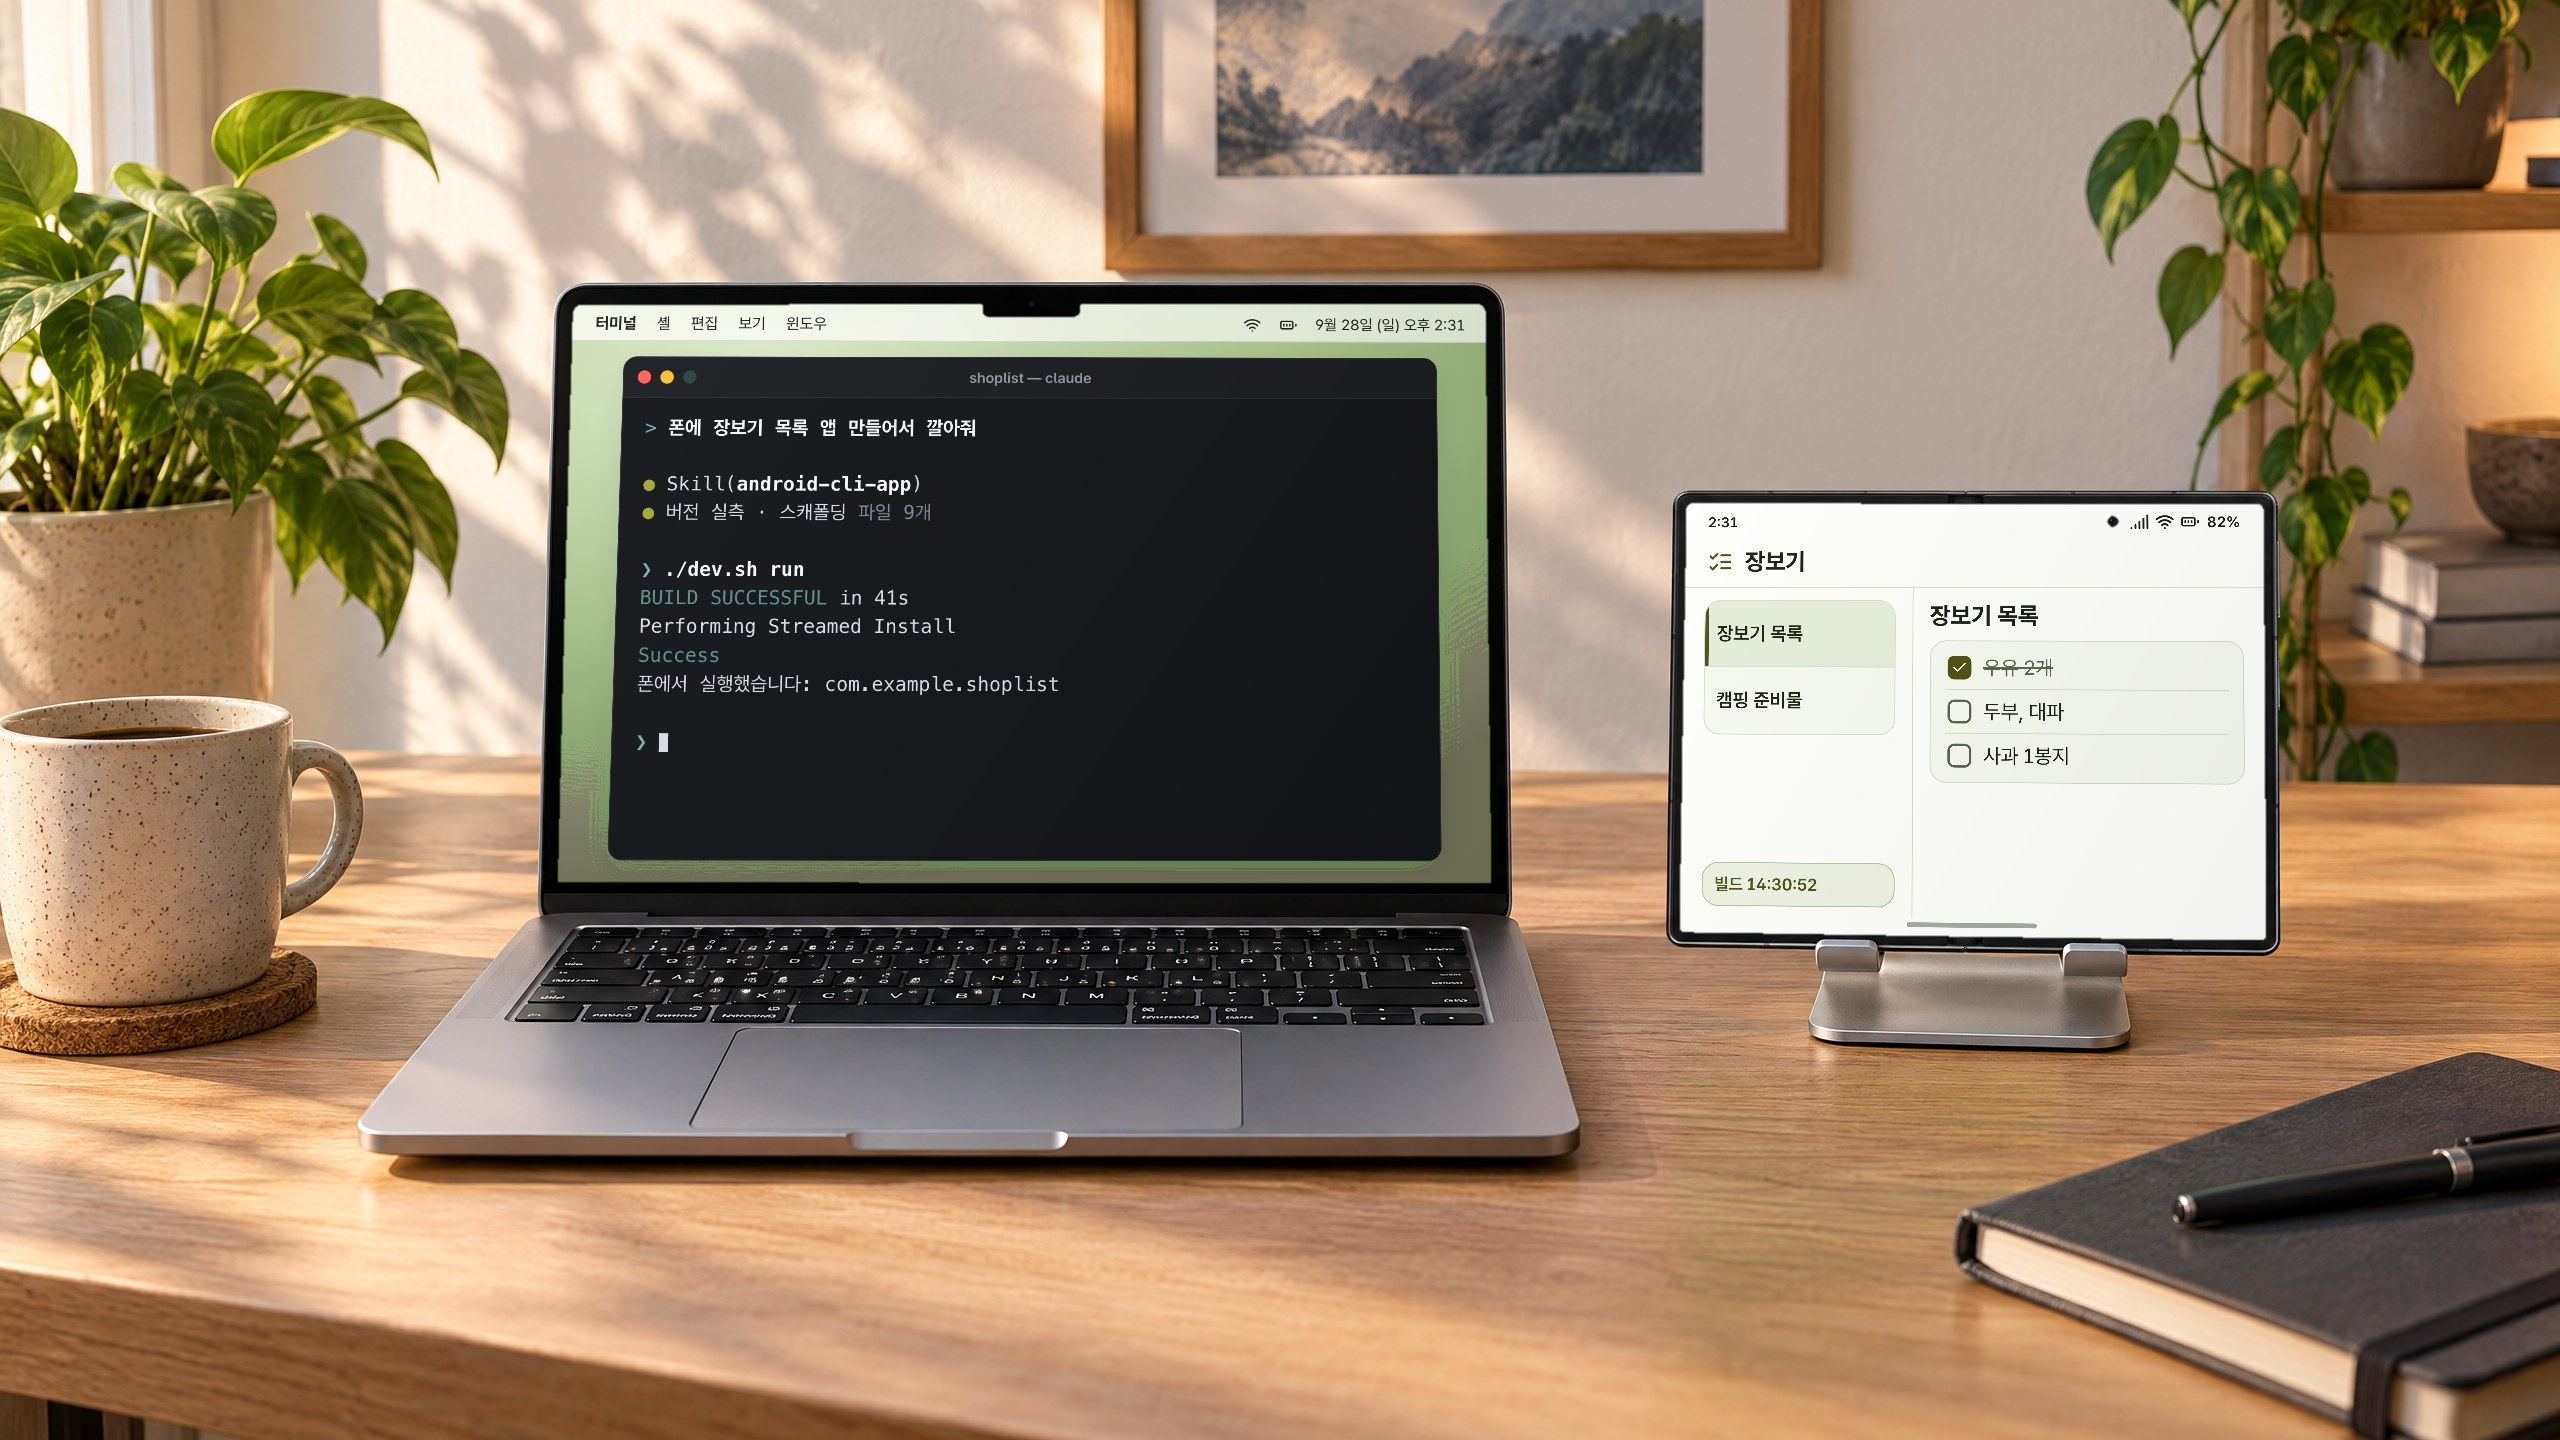
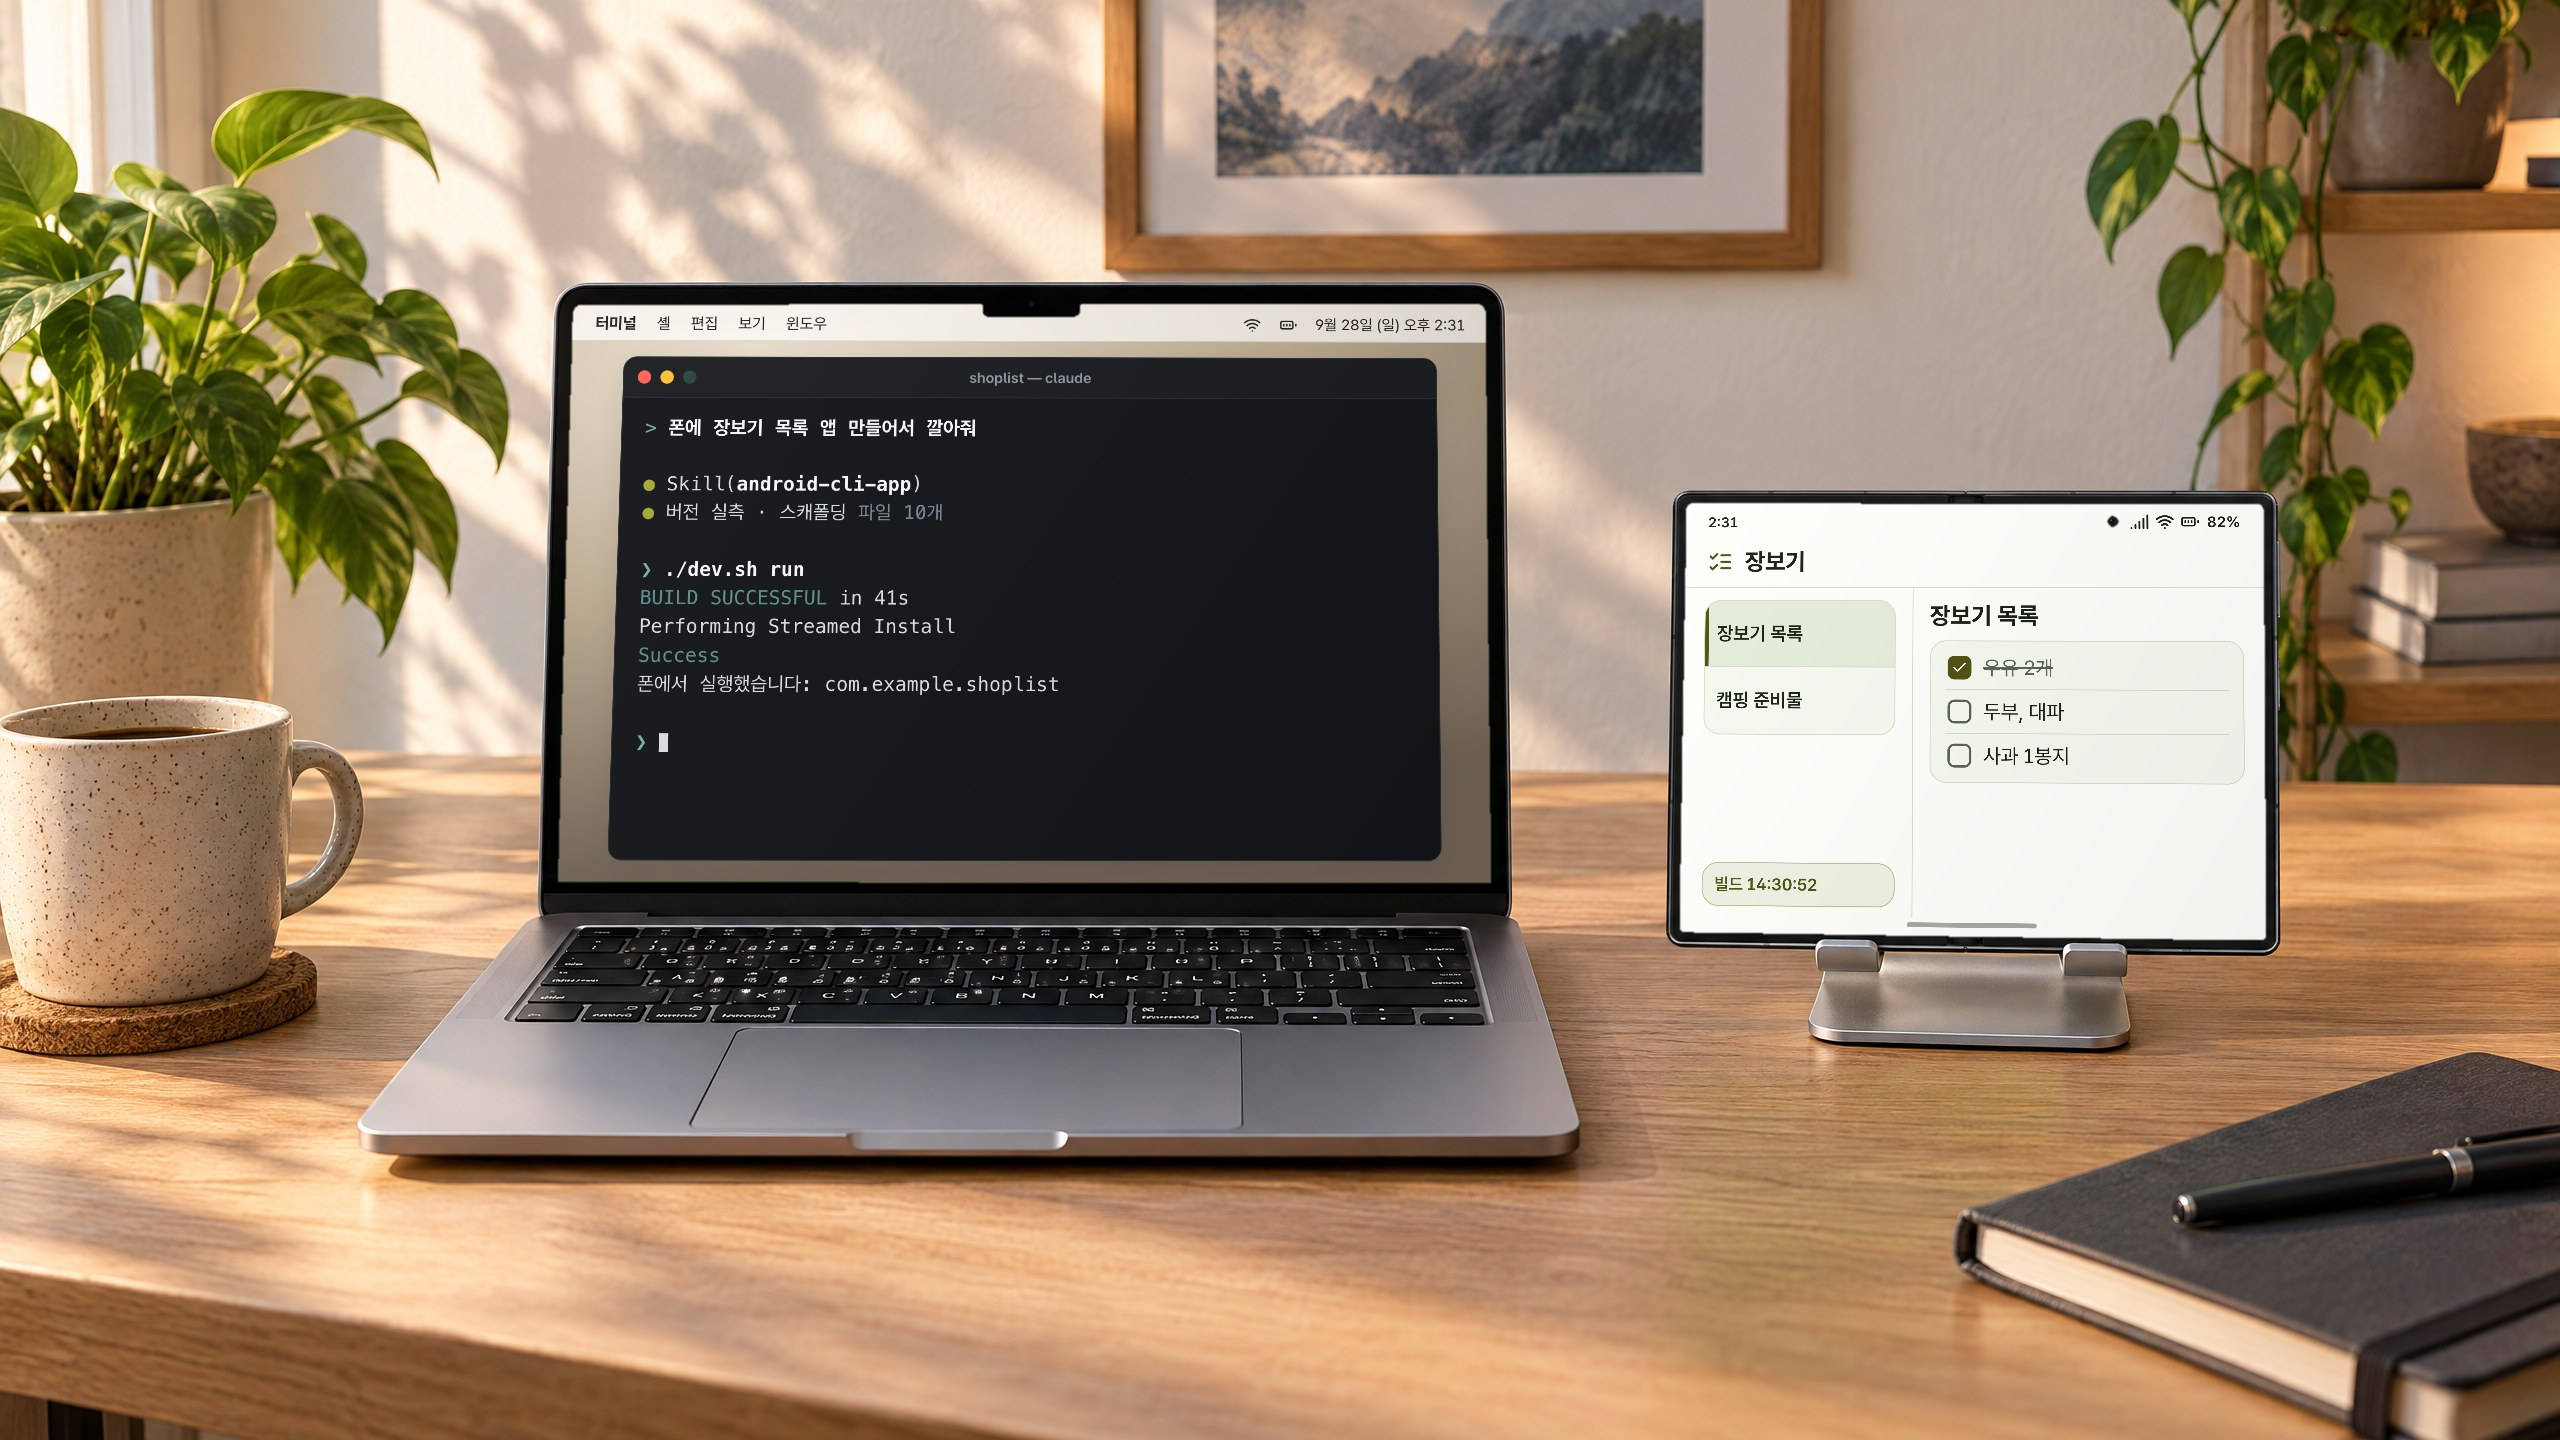
docs: scene fixes
Mac wallpaper was green, so the chroma despill turned its edges into a
dithered green band. Switched to a neutral gradient and fixed the
scaffold file count (10) in scene 1.

Changed region(s): [[0.4688, 0.2188, 0.5938, 0.5], [0.25, 0.5938, 0.5625, 0.625], [0.2188, 0.375, 0.25, 0.5938]]

diff --git a/docs/mockups/scenes/1-run-mac.html b/docs/mockups/scenes/1-run-mac.html
@@ -7,7 +7,7 @@
 <style>
   body { background: #000; }
   .desk { zoom: 2.25; width: 800px; height: 500px; position: relative; overflow: hidden;
-    background: radial-gradient(120% 90% at 20% 10%, #DCE8C8 0%, #A9C08A 50%, #6F8A55 100%); }
+    background: radial-gradient(120% 90% at 20% 10%, #E6DCCB 0%, #B7A58B 50%, #6E6153 100%); }
   .mac-menubar { font-size: 14px; }
   .terminal { position: absolute; left: 40px; top: 44px; width: 720px; height: 440px; }
   .terminal-bar .t-title { font-size: 13px; }
@@ -23,7 +23,7 @@
     <div class="terminal-body"><span class="t-prompt">&gt;</span> <span class="t-b">폰에 장보기 목록 앱 만들어서 깔아줘</span>
 
 <span class="t-accent">●</span> Skill(<span class="t-b">android-cli-app</span>)
-<span class="t-accent">●</span> 버전 실측 · 스캐폴딩 <span class="t-dim">파일 9개</span>
+<span class="t-accent">●</span> 버전 실측 · 스캐폴딩 <span class="t-dim">파일 10개</span>
 
 <span class="t-prompt">❯</span> <span class="t-b">./dev.sh run</span>
 <span class="t-ok">BUILD SUCCESSFUL</span> in 41s

diff --git a/docs/mockups/scenes/2-rebuild-mac.html b/docs/mockups/scenes/2-rebuild-mac.html
@@ -8,7 +8,7 @@
   body { background: #000; }
   /* 클로즈업: 맥 화면 중 터미널 창 부분만 (1.39:1) */
   .desk { zoom: 2.25; width: 800px; height: 576px; position: relative; overflow: hidden;
-    background: radial-gradient(120% 90% at 20% 10%, #DCE8C8 0%, #A9C08A 50%, #6F8A55 100%); }
+    background: radial-gradient(120% 90% at 20% 10%, #E6DCCB 0%, #B7A58B 50%, #6E6153 100%); }
   .mac-menubar { font-size: 14px; }
   .terminal { position: absolute; left: 24px; top: 44px; width: 752px; height: 510px; }
   .terminal-bar .t-title { font-size: 13px; }

diff --git a/docs/mockups/scenes/3-connect-mac.html b/docs/mockups/scenes/3-connect-mac.html
@@ -7,7 +7,7 @@
 <style>
   body { background: #000; }
   .desk { zoom: 2.25; width: 800px; height: 500px; position: relative; overflow: hidden;
-    background: radial-gradient(120% 90% at 20% 10%, #DCE8C8 0%, #A9C08A 50%, #6F8A55 100%); }
+    background: radial-gradient(120% 90% at 20% 10%, #E6DCCB 0%, #B7A58B 50%, #6E6153 100%); }
   .mac-menubar { font-size: 14px; }
   .terminal { position: absolute; left: 40px; top: 44px; width: 720px; height: 440px; }
   .terminal-bar .t-title { font-size: 13px; }
